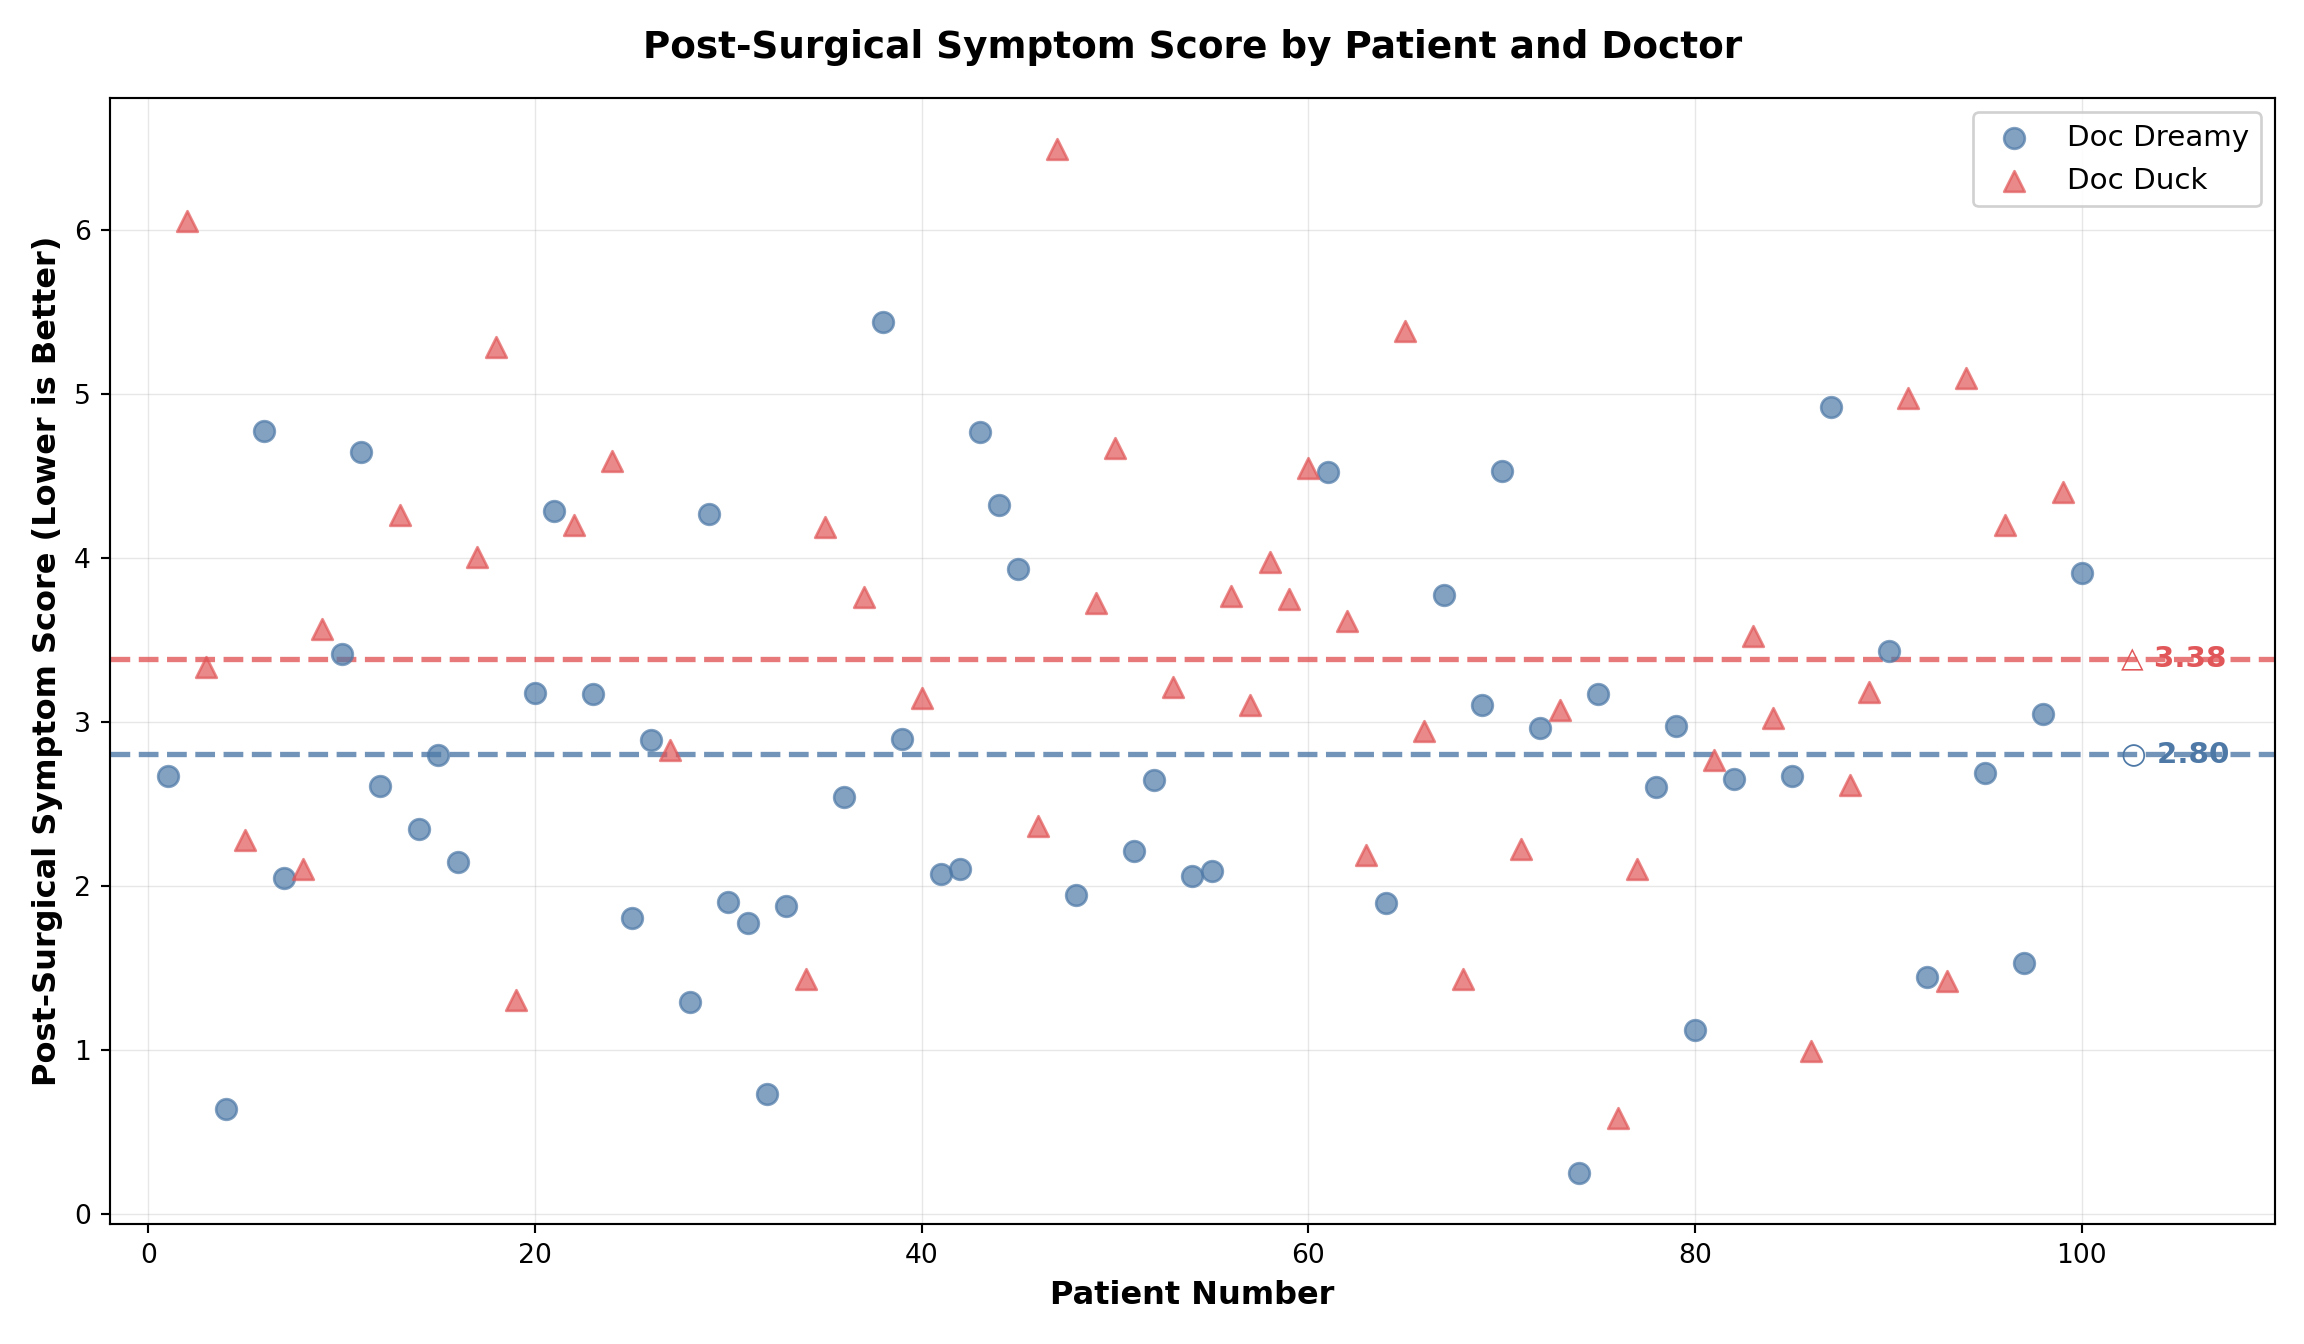
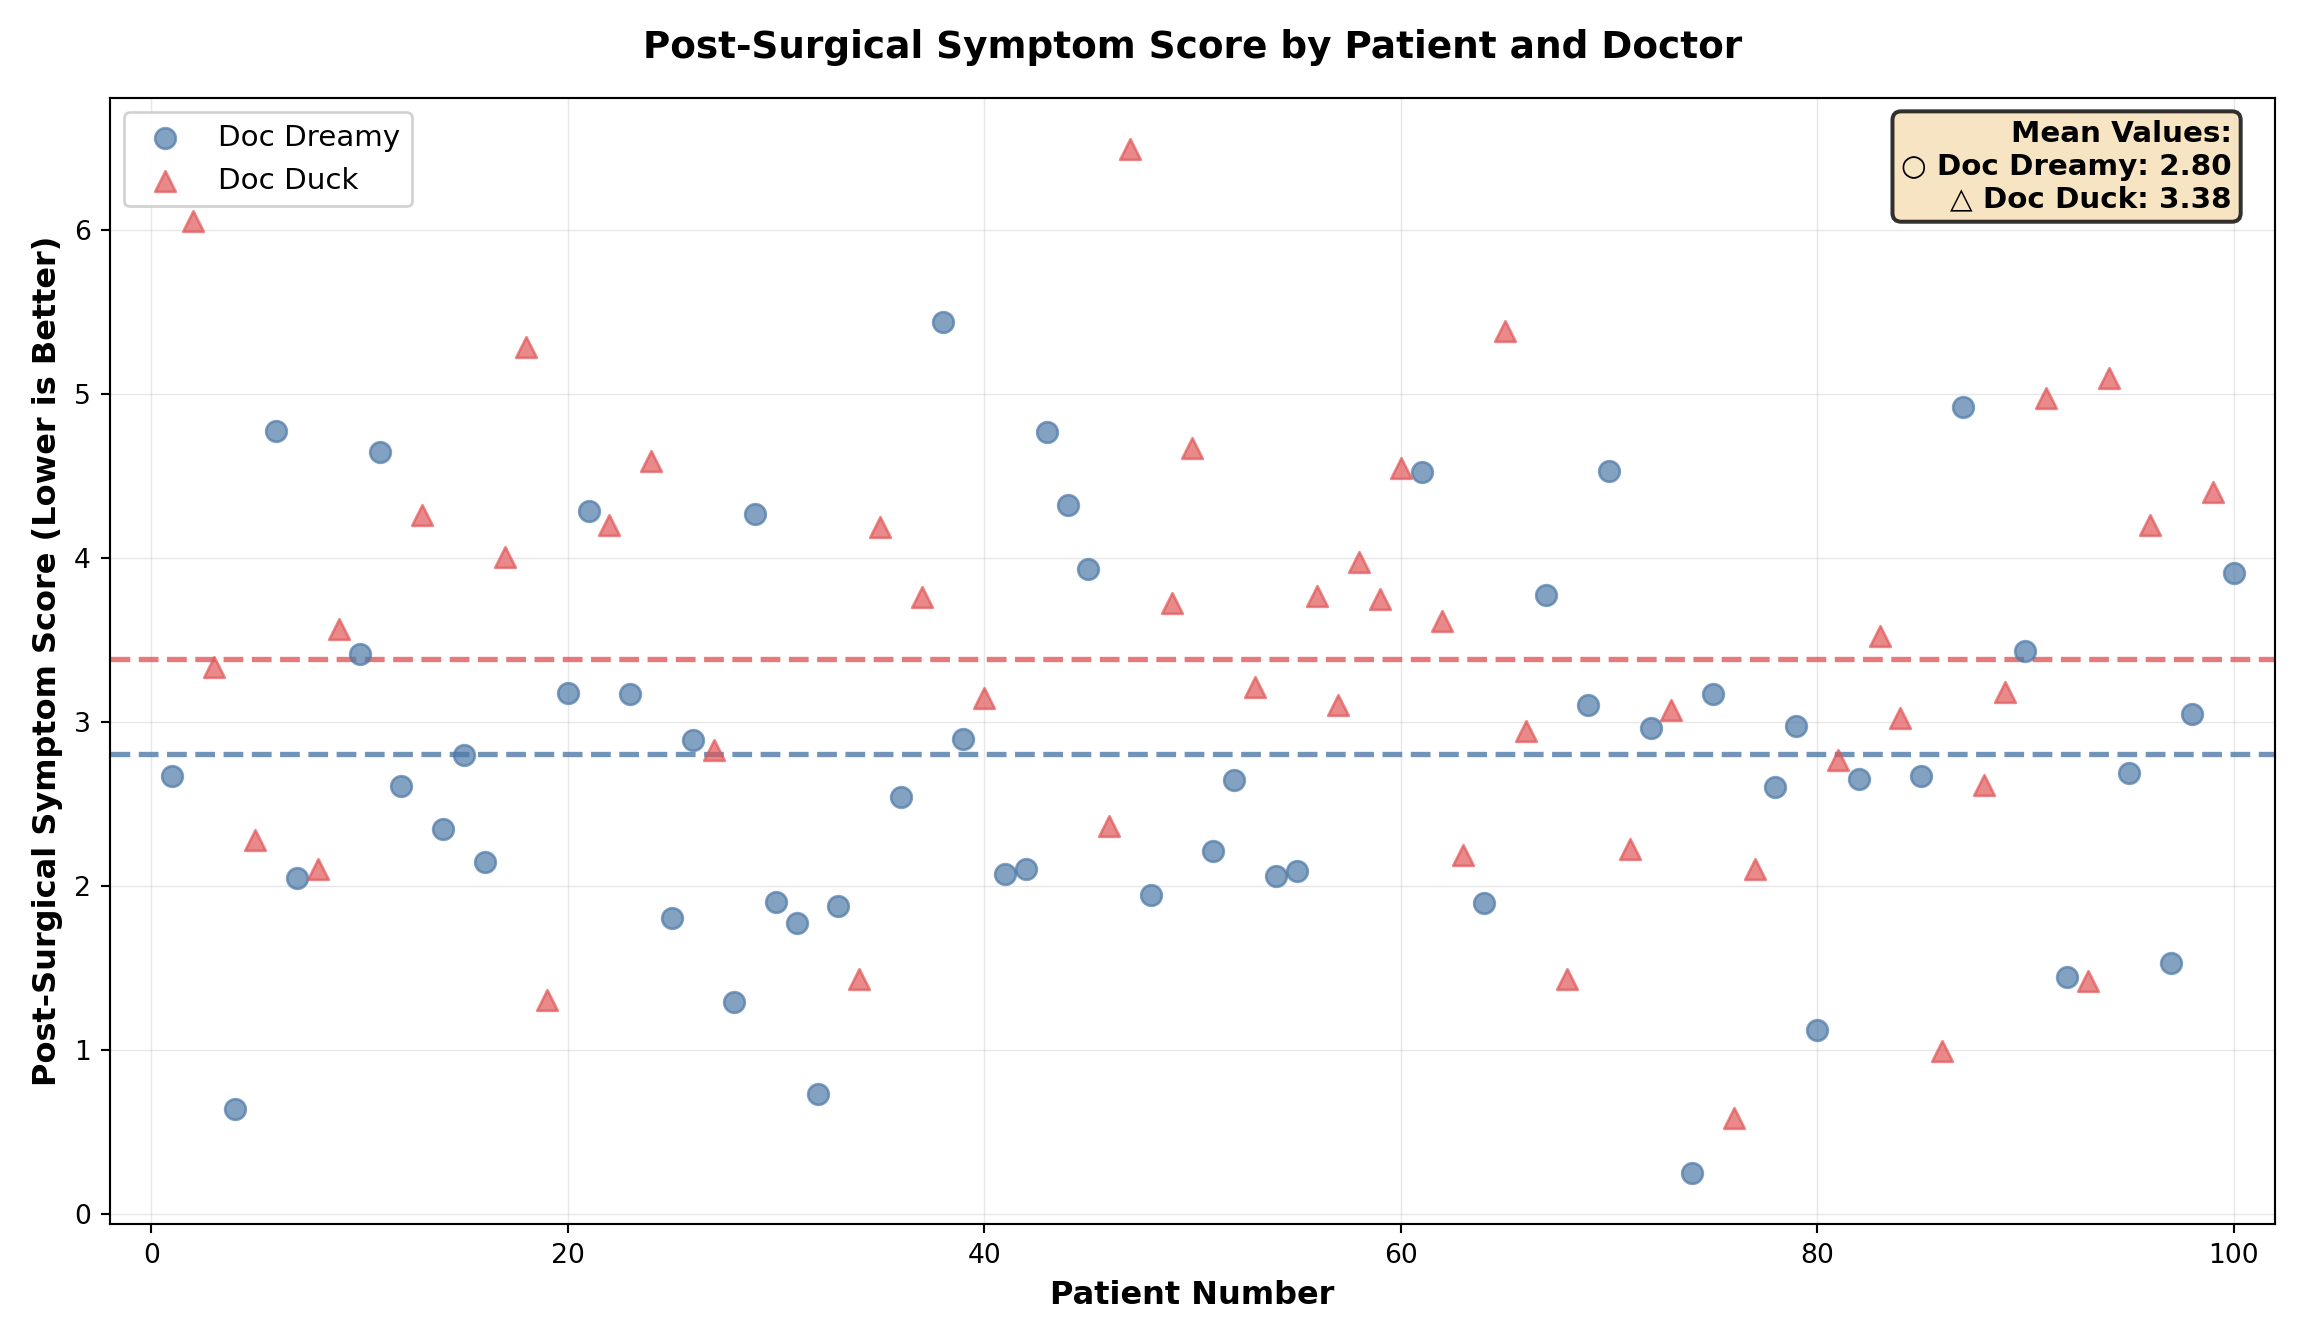
fixed mean box

diff --git a/index.html b/index.html
@@ -307,39 +307,36 @@ window.Quarto = {
 <span id="cb9-29"><a href="#cb9-29" aria-hidden="true" tabindex="-1"></a>ax.axhline(y<span class="op">=</span>duck_mean, color<span class="op">=</span><span class="st">'#E15759'</span>, linestyle<span class="op">=</span><span class="st">'--'</span>, linewidth<span class="op">=</span><span class="dv">2</span>, </span>
 <span id="cb9-30"><a href="#cb9-30" aria-hidden="true" tabindex="-1"></a>           alpha<span class="op">=</span><span class="fl">0.8</span>, zorder<span class="op">=</span><span class="dv">2</span>)</span>
 <span id="cb9-31"><a href="#cb9-31" aria-hidden="true" tabindex="-1"></a></span>
-<span id="cb9-32"><a href="#cb9-32" aria-hidden="true" tabindex="-1"></a><span class="co"># Add text annotations with shape symbols</span></span>
-<span id="cb9-33"><a href="#cb9-33" aria-hidden="true" tabindex="-1"></a><span class="co"># Doc Dreamy annotation (○ symbol)</span></span>
-<span id="cb9-34"><a href="#cb9-34" aria-hidden="true" tabindex="-1"></a>ax.text(<span class="dv">102</span>, dreamy_mean, <span class="ss">f'○ </span><span class="sc">{</span>dreamy_mean<span class="sc">:.2f}</span><span class="ss">'</span>, </span>
-<span id="cb9-35"><a href="#cb9-35" aria-hidden="true" tabindex="-1"></a>        color<span class="op">=</span><span class="st">'#4E79A7'</span>, fontsize<span class="op">=</span><span class="dv">11</span>, fontweight<span class="op">=</span><span class="st">'bold'</span>,</span>
-<span id="cb9-36"><a href="#cb9-36" aria-hidden="true" tabindex="-1"></a>        verticalalignment<span class="op">=</span><span class="st">'center'</span>, zorder<span class="op">=</span><span class="dv">4</span>)</span>
-<span id="cb9-37"><a href="#cb9-37" aria-hidden="true" tabindex="-1"></a></span>
-<span id="cb9-38"><a href="#cb9-38" aria-hidden="true" tabindex="-1"></a><span class="co"># Doc Duck annotation (△ symbol)</span></span>
-<span id="cb9-39"><a href="#cb9-39" aria-hidden="true" tabindex="-1"></a>ax.text(<span class="dv">102</span>, duck_mean, <span class="ss">f'△ </span><span class="sc">{</span>duck_mean<span class="sc">:.2f}</span><span class="ss">'</span>, </span>
-<span id="cb9-40"><a href="#cb9-40" aria-hidden="true" tabindex="-1"></a>        color<span class="op">=</span><span class="st">'#E15759'</span>, fontsize<span class="op">=</span><span class="dv">11</span>, fontweight<span class="op">=</span><span class="st">'bold'</span>,</span>
-<span id="cb9-41"><a href="#cb9-41" aria-hidden="true" tabindex="-1"></a>        verticalalignment<span class="op">=</span><span class="st">'center'</span>, zorder<span class="op">=</span><span class="dv">4</span>)</span>
+<span id="cb9-32"><a href="#cb9-32" aria-hidden="true" tabindex="-1"></a><span class="co"># Professional styling</span></span>
+<span id="cb9-33"><a href="#cb9-33" aria-hidden="true" tabindex="-1"></a>ax.set_xlabel(<span class="st">'Patient Number'</span>, fontsize<span class="op">=</span><span class="dv">12</span>, fontweight<span class="op">=</span><span class="st">'bold'</span>)</span>
+<span id="cb9-34"><a href="#cb9-34" aria-hidden="true" tabindex="-1"></a>ax.set_ylabel(<span class="st">'Post-Surgical Symptom Score (Lower is Better)'</span>, </span>
+<span id="cb9-35"><a href="#cb9-35" aria-hidden="true" tabindex="-1"></a>              fontsize<span class="op">=</span><span class="dv">12</span>, fontweight<span class="op">=</span><span class="st">'bold'</span>)</span>
+<span id="cb9-36"><a href="#cb9-36" aria-hidden="true" tabindex="-1"></a>ax.set_title(<span class="st">'Post-Surgical Symptom Score by Patient and Doctor'</span>, </span>
+<span id="cb9-37"><a href="#cb9-37" aria-hidden="true" tabindex="-1"></a>             fontsize<span class="op">=</span><span class="dv">14</span>, fontweight<span class="op">=</span><span class="st">'bold'</span>, pad<span class="op">=</span><span class="dv">15</span>)</span>
+<span id="cb9-38"><a href="#cb9-38" aria-hidden="true" tabindex="-1"></a></span>
+<span id="cb9-39"><a href="#cb9-39" aria-hidden="true" tabindex="-1"></a><span class="co"># Add grid</span></span>
+<span id="cb9-40"><a href="#cb9-40" aria-hidden="true" tabindex="-1"></a>ax.grid(<span class="va">True</span>, alpha<span class="op">=</span><span class="fl">0.3</span>, linestyle<span class="op">=</span><span class="st">'-'</span>, linewidth<span class="op">=</span><span class="fl">0.5</span>)</span>
+<span id="cb9-41"><a href="#cb9-41" aria-hidden="true" tabindex="-1"></a>ax.set_axisbelow(<span class="va">True</span>)</span>
 <span id="cb9-42"><a href="#cb9-42" aria-hidden="true" tabindex="-1"></a></span>
-<span id="cb9-43"><a href="#cb9-43" aria-hidden="true" tabindex="-1"></a><span class="co"># Professional styling</span></span>
-<span id="cb9-44"><a href="#cb9-44" aria-hidden="true" tabindex="-1"></a>ax.set_xlabel(<span class="st">'Patient Number'</span>, fontsize<span class="op">=</span><span class="dv">12</span>, fontweight<span class="op">=</span><span class="st">'bold'</span>)</span>
-<span id="cb9-45"><a href="#cb9-45" aria-hidden="true" tabindex="-1"></a>ax.set_ylabel(<span class="st">'Post-Surgical Symptom Score (Lower is Better)'</span>, </span>
-<span id="cb9-46"><a href="#cb9-46" aria-hidden="true" tabindex="-1"></a>              fontsize<span class="op">=</span><span class="dv">12</span>, fontweight<span class="op">=</span><span class="st">'bold'</span>)</span>
-<span id="cb9-47"><a href="#cb9-47" aria-hidden="true" tabindex="-1"></a>ax.set_title(<span class="st">'Post-Surgical Symptom Score by Patient and Doctor'</span>, </span>
-<span id="cb9-48"><a href="#cb9-48" aria-hidden="true" tabindex="-1"></a>             fontsize<span class="op">=</span><span class="dv">14</span>, fontweight<span class="op">=</span><span class="st">'bold'</span>, pad<span class="op">=</span><span class="dv">15</span>)</span>
-<span id="cb9-49"><a href="#cb9-49" aria-hidden="true" tabindex="-1"></a></span>
-<span id="cb9-50"><a href="#cb9-50" aria-hidden="true" tabindex="-1"></a><span class="co"># Add grid</span></span>
-<span id="cb9-51"><a href="#cb9-51" aria-hidden="true" tabindex="-1"></a>ax.grid(<span class="va">True</span>, alpha<span class="op">=</span><span class="fl">0.3</span>, linestyle<span class="op">=</span><span class="st">'-'</span>, linewidth<span class="op">=</span><span class="fl">0.5</span>)</span>
-<span id="cb9-52"><a href="#cb9-52" aria-hidden="true" tabindex="-1"></a>ax.set_axisbelow(<span class="va">True</span>)</span>
-<span id="cb9-53"><a href="#cb9-53" aria-hidden="true" tabindex="-1"></a></span>
-<span id="cb9-54"><a href="#cb9-54" aria-hidden="true" tabindex="-1"></a><span class="co"># Set x-axis limits to accommodate annotations</span></span>
-<span id="cb9-55"><a href="#cb9-55" aria-hidden="true" tabindex="-1"></a>ax.set_xlim(<span class="op">-</span><span class="dv">2</span>, <span class="dv">110</span>)</span></code></pre></div><button title="Copy to Clipboard" class="code-copy-button"><i class="bi"></i></button></div>
+<span id="cb9-43"><a href="#cb9-43" aria-hidden="true" tabindex="-1"></a><span class="co"># Set x-axis limits (no need to extend for annotations anymore)</span></span>
+<span id="cb9-44"><a href="#cb9-44" aria-hidden="true" tabindex="-1"></a>ax.set_xlim(<span class="op">-</span><span class="dv">2</span>, <span class="dv">102</span>)</span></code></pre></div><button title="Copy to Clipboard" class="code-copy-button"><i class="bi"></i></button></div>
 <div class="cell-output cell-output-stdout">
-<pre><code>(-2.0, 110.0)</code></pre>
+<pre><code>(-2.0, 102.0)</code></pre>
 </div>
-<div class="code-copy-outer-scaffold"><div class="sourceCode cell-code" id="cb11"><pre class="sourceCode python code-with-copy"><code class="sourceCode python"><span id="cb11-1"><a href="#cb11-1" aria-hidden="true" tabindex="-1"></a><span class="co"># Add legend</span></span>
-<span id="cb11-2"><a href="#cb11-2" aria-hidden="true" tabindex="-1"></a>ax.legend(loc<span class="op">=</span><span class="st">'upper right'</span>, fontsize<span class="op">=</span><span class="dv">11</span>, framealpha<span class="op">=</span><span class="fl">0.9</span>)</span>
+<div class="code-copy-outer-scaffold"><div class="sourceCode cell-code" id="cb11"><pre class="sourceCode python code-with-copy"><code class="sourceCode python"><span id="cb11-1"><a href="#cb11-1" aria-hidden="true" tabindex="-1"></a><span class="co"># Add legend (positioned to avoid overlap with mean box)</span></span>
+<span id="cb11-2"><a href="#cb11-2" aria-hidden="true" tabindex="-1"></a>ax.legend(loc<span class="op">=</span><span class="st">'upper left'</span>, fontsize<span class="op">=</span><span class="dv">11</span>, framealpha<span class="op">=</span><span class="fl">0.9</span>)</span>
 <span id="cb11-3"><a href="#cb11-3" aria-hidden="true" tabindex="-1"></a></span>
-<span id="cb11-4"><a href="#cb11-4" aria-hidden="true" tabindex="-1"></a><span class="co"># Adjust layout</span></span>
-<span id="cb11-5"><a href="#cb11-5" aria-hidden="true" tabindex="-1"></a>plt.tight_layout()</span>
-<span id="cb11-6"><a href="#cb11-6" aria-hidden="true" tabindex="-1"></a>plt.show()</span></code></pre></div><button title="Copy to Clipboard" class="code-copy-button"><i class="bi"></i></button></div>
+<span id="cb11-4"><a href="#cb11-4" aria-hidden="true" tabindex="-1"></a><span class="co"># Create a text box on the side with mean values</span></span>
+<span id="cb11-5"><a href="#cb11-5" aria-hidden="true" tabindex="-1"></a>mean_text <span class="op">=</span> <span class="ss">f'Mean Values:</span><span class="ch">\n</span><span class="ss">○ Doc Dreamy: </span><span class="sc">{</span>dreamy_mean<span class="sc">:.2f}</span><span class="ch">\n</span><span class="ss">△ Doc Duck: </span><span class="sc">{</span>duck_mean<span class="sc">:.2f}</span><span class="ss">'</span></span>
+<span id="cb11-6"><a href="#cb11-6" aria-hidden="true" tabindex="-1"></a>ax.text(<span class="fl">0.98</span>, <span class="fl">0.98</span>, mean_text, transform<span class="op">=</span>ax.transAxes,</span>
+<span id="cb11-7"><a href="#cb11-7" aria-hidden="true" tabindex="-1"></a>        fontsize<span class="op">=</span><span class="dv">11</span>, fontweight<span class="op">=</span><span class="st">'bold'</span>,</span>
+<span id="cb11-8"><a href="#cb11-8" aria-hidden="true" tabindex="-1"></a>        verticalalignment<span class="op">=</span><span class="st">'top'</span>, horizontalalignment<span class="op">=</span><span class="st">'right'</span>,</span>
+<span id="cb11-9"><a href="#cb11-9" aria-hidden="true" tabindex="-1"></a>        bbox<span class="op">=</span><span class="bu">dict</span>(boxstyle<span class="op">=</span><span class="st">'round'</span>, facecolor<span class="op">=</span><span class="st">'wheat'</span>, alpha<span class="op">=</span><span class="fl">0.8</span>, edgecolor<span class="op">=</span><span class="st">'black'</span>, linewidth<span class="op">=</span><span class="fl">1.5</span>),</span>
+<span id="cb11-10"><a href="#cb11-10" aria-hidden="true" tabindex="-1"></a>        zorder<span class="op">=</span><span class="dv">5</span>)</span>
+<span id="cb11-11"><a href="#cb11-11" aria-hidden="true" tabindex="-1"></a></span>
+<span id="cb11-12"><a href="#cb11-12" aria-hidden="true" tabindex="-1"></a><span class="co"># Adjust layout</span></span>
+<span id="cb11-13"><a href="#cb11-13" aria-hidden="true" tabindex="-1"></a>plt.tight_layout()</span>
+<span id="cb11-14"><a href="#cb11-14" aria-hidden="true" tabindex="-1"></a>plt.show()</span></code></pre></div><button title="Copy to Clipboard" class="code-copy-button"><i class="bi"></i></button></div>
 <div class="cell-output-display">
 <div id="fig-plot-outcomes" class="quarto-float quarto-figure quarto-figure-center anchored">
 <figure class="quarto-float quarto-float-fig figure">
